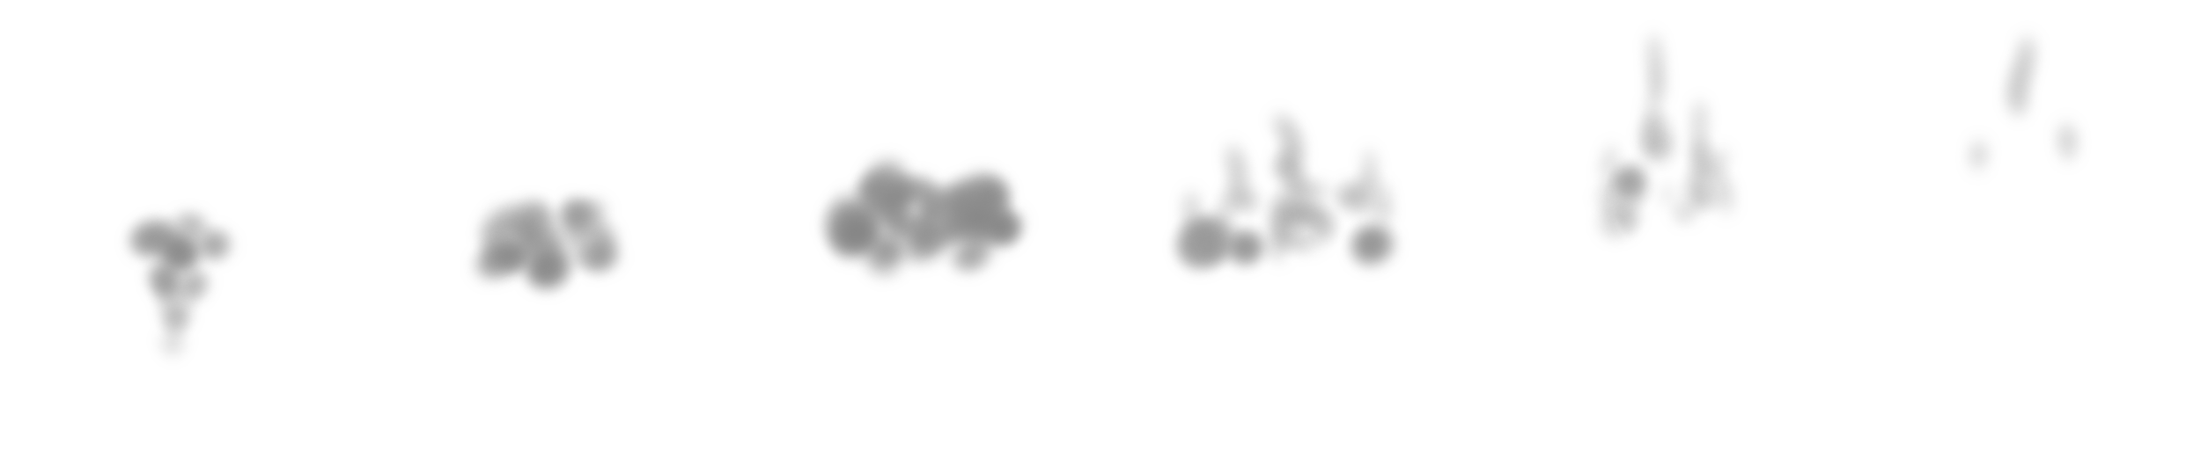
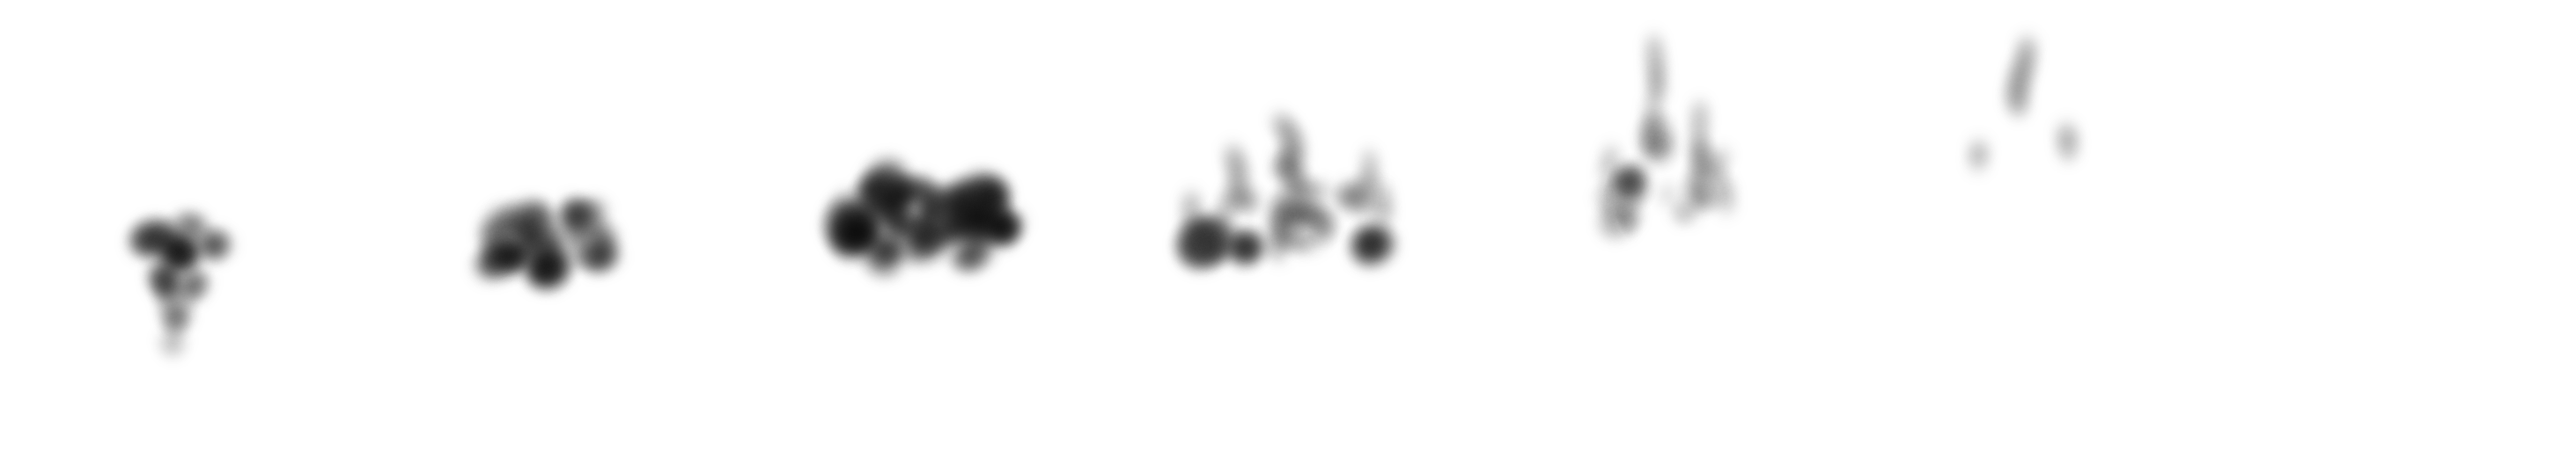
implemented smoke animation

diff --git a/js/PlayState.js b/js/PlayState.js
@@ -12,6 +12,7 @@ var PlayState = {
         game.load.spritesheet('bookNoShit','assets/images/closedBook_noBlueShit desaturated.png',449,327,13);
         game.load.spritesheet('bubbles','assets/images/bubbles.png',892,319,6);
         game.load.spritesheet('sploosh','assets/images/sploosh.png',907,461,7);
+        game.load.spritesheet('smoke','assets/images/smoke.png',418,513,7);
         game.load.atlas('candy','assets/images/candy/candysheet.png','assets/images/candy/candysheet.json',Phaser.Loader.TEXTURE_ATLAS_JSON_HASH);
 
         //sound
@@ -83,7 +84,11 @@ var PlayState = {
         splash.scale.set(.24,.24);
 		splash.animations.add('idle',[0,1,2,3,4,5,6]);
         splash.animations.frame=6;
-        //splash.animations.play('idle',15,false);
+
+        smoke = game.add.sprite(960, 100, 'smoke');
+        //smoke.scale.set(.24,.24);
+		smoke.animations.add('idle',[0,1,2,3,4,5,6]);
+        smoke.animations.frame=6;
 		
 		//group of sprites/items
 		group = game.add.group();
@@ -180,6 +185,8 @@ var PlayState = {
 	    winCondition = 0;
 	    shelf_index = 0;
 	    dirty = false;
+        flavors_string = "";
+        effects_string = "";
 	},
 
     toTitleCase: function (str) {
@@ -762,7 +769,7 @@ var PlayState = {
 	        console.log('-----');
 
 	        if(playsmoke) {
-
+                smoke.animations.play('idle',15,false);
 	        }
 	        else {
 	            splash.animations.play('idle',15,false);
@@ -789,6 +796,8 @@ var PlayState = {
 	    dirty = false;
 	    bubble_surface.tint = PlayState.hexFromArray(currentColor);
         splash.tint = bubble_surface.tint;
+        flavors_string = "";
+        effects_string = "";
 	},
 
 	add_mind_control: function () {
